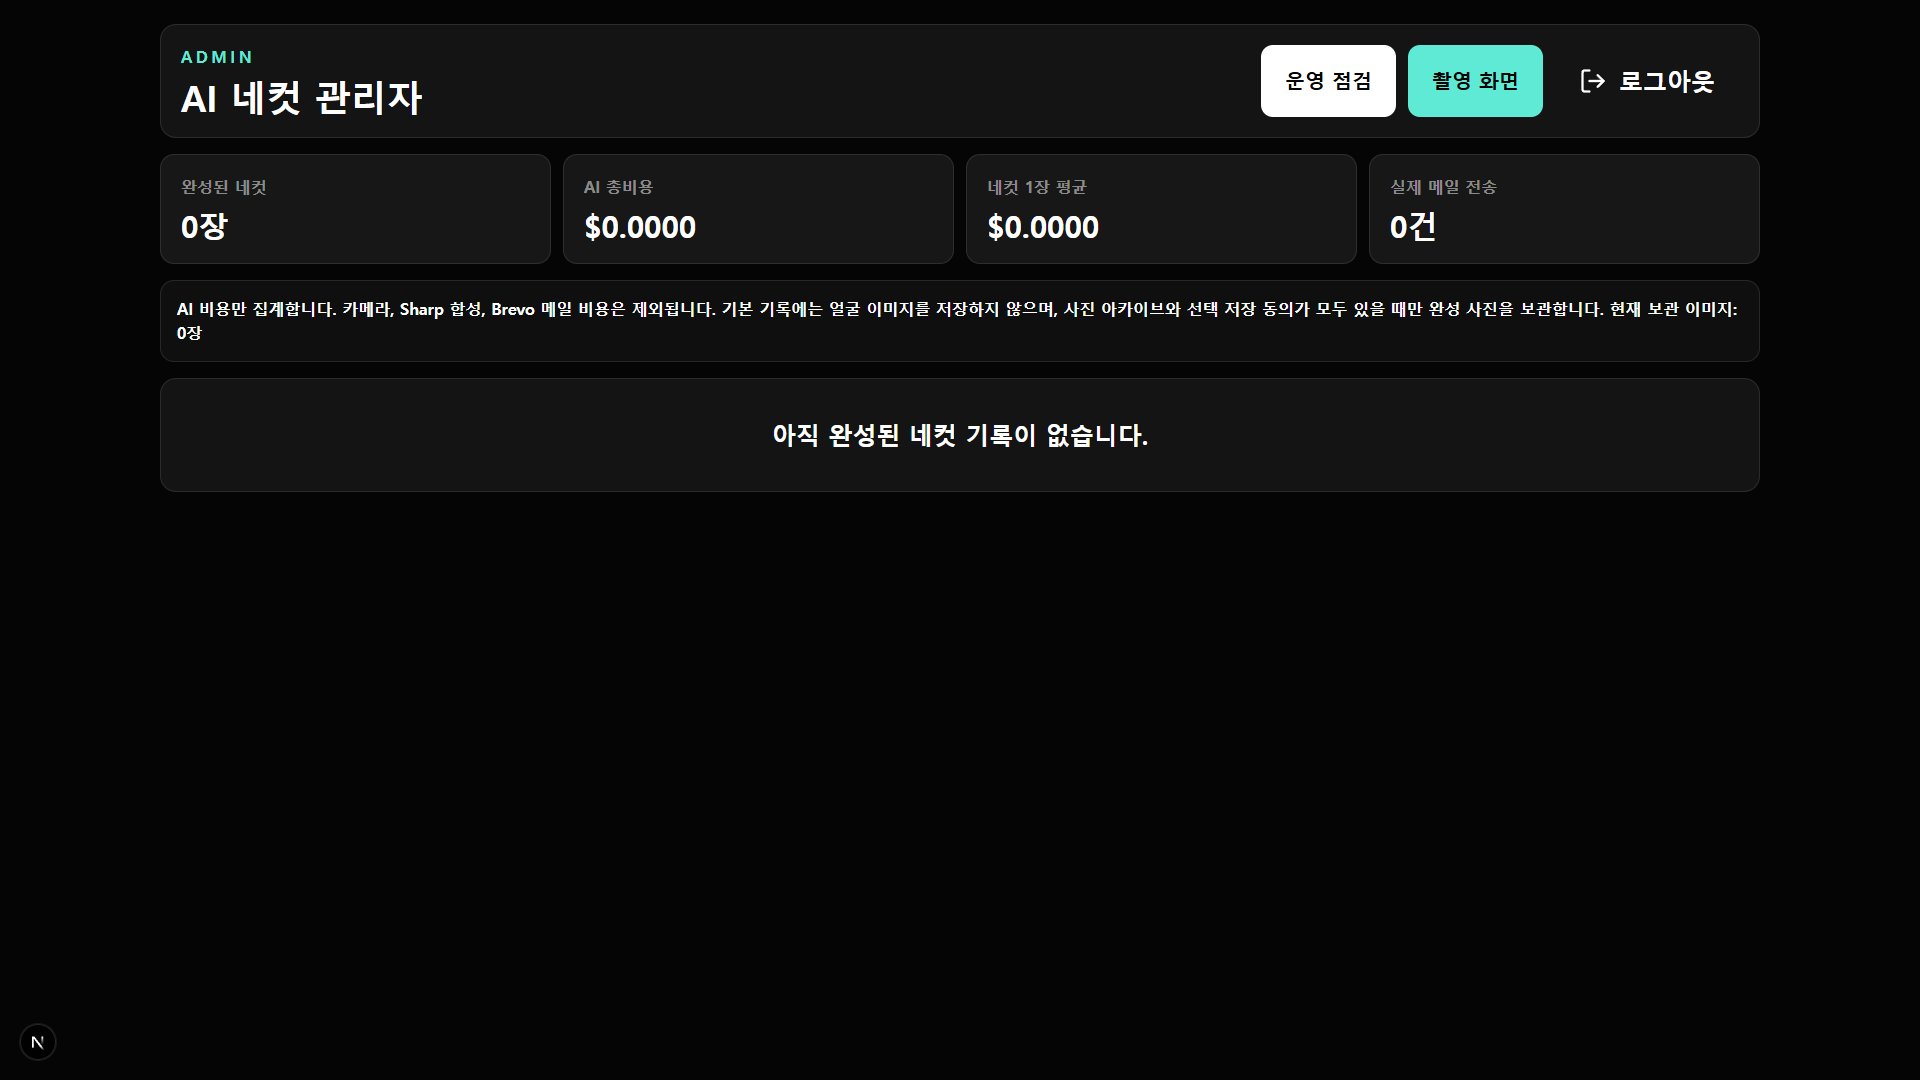
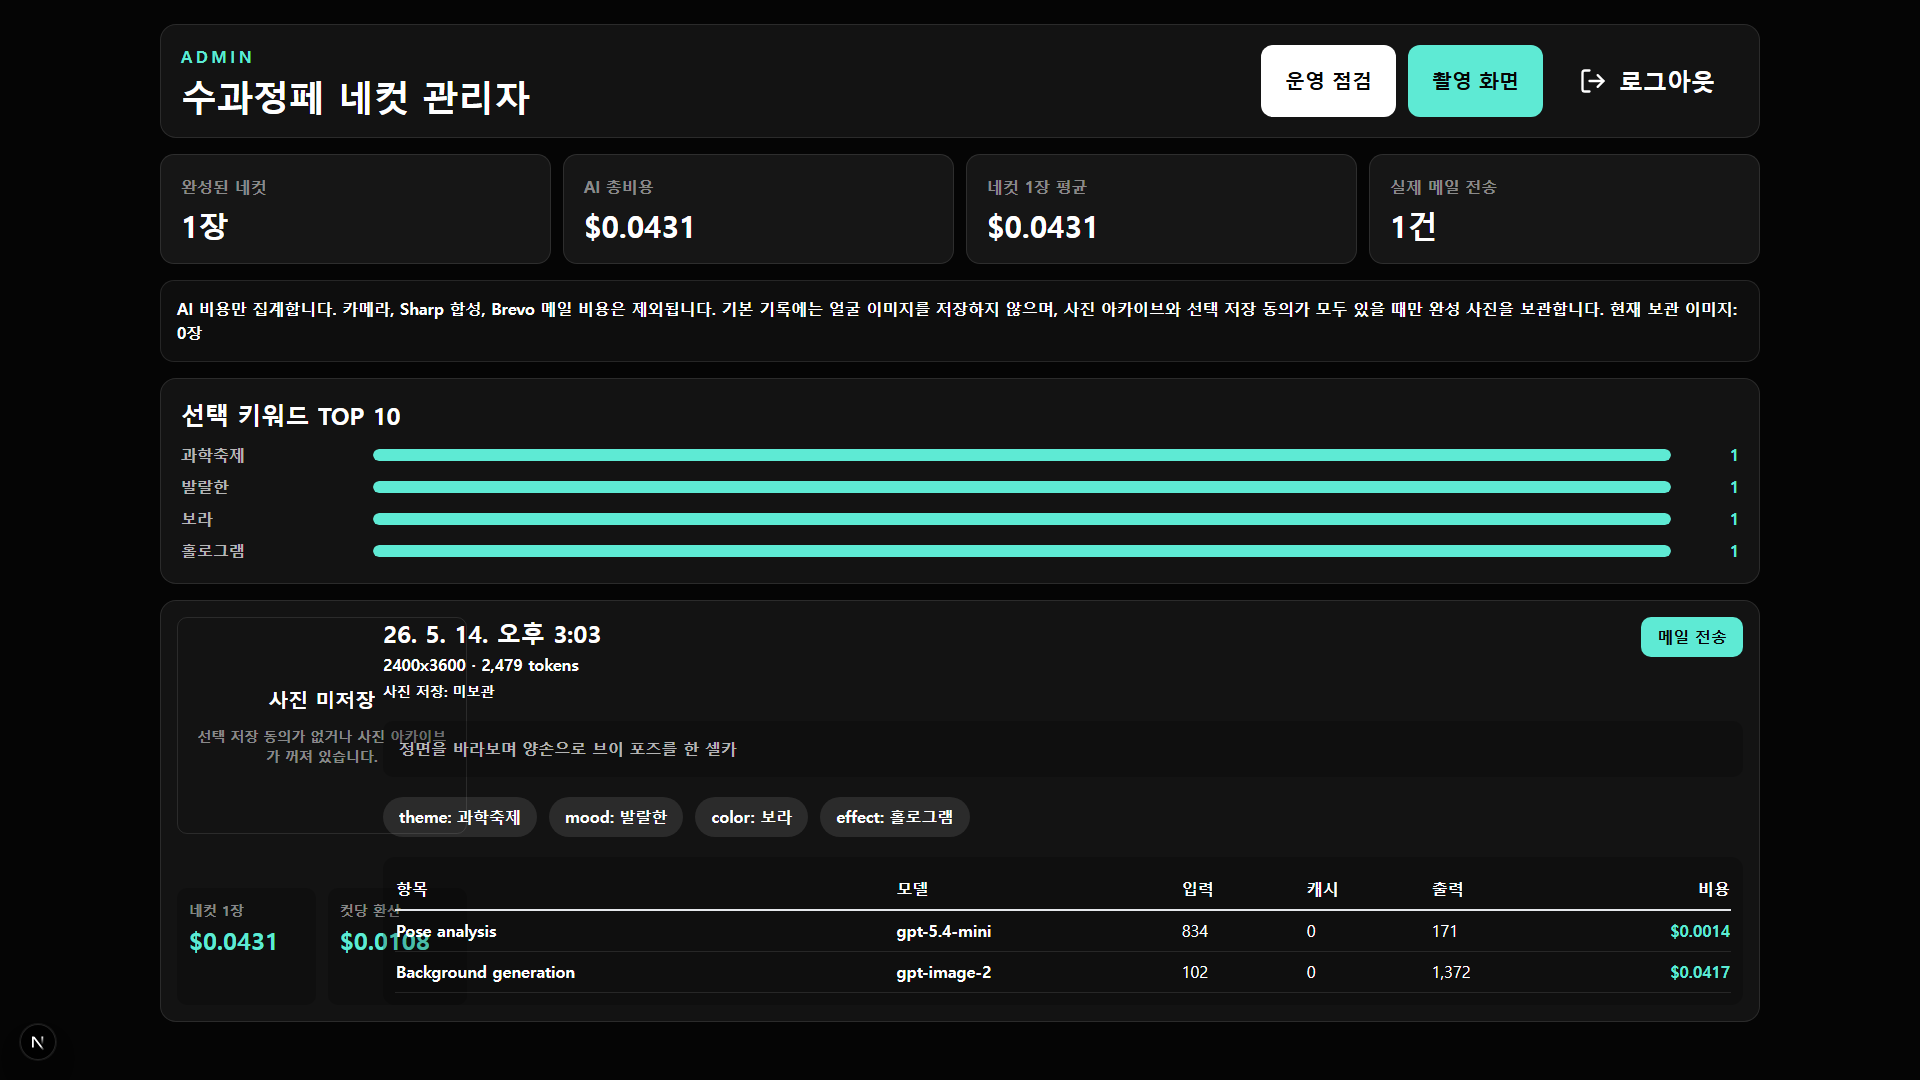
Update booth name

diff --git a/components/BoothApp.tsx b/components/BoothApp.tsx
@@ -48,6 +48,7 @@ const CATEGORY_LABELS: Record<KeywordCategory, string> = {
   effect: "장식",
 };
 const EVENT_TITLE = "2026. 진주시와 함께하는 경남과학고등학교 수학, 과학, 정보 페스티벌";
+const BOOTH_NAME = "AI와 함께하는 수과정페 네컷";
 const CLUB_NAME = "이음(IEUM)";
 const CLUB_SLOGAN = "- 기술로 사람과 사람을 잇다";
 const STAGE_LABELS = ["시작", "AI추천", "촬영", "선택", "받기"];
@@ -134,7 +135,7 @@ function presetKeywords(analysis: PoseAnalysis, index: number): SelectedKeywords
 
 function conceptTitle(selection: SelectedKeywords | null): string {
   if (!selection) {
-    return "AI 네컷";
+    return BOOTH_NAME;
   }
   return `${selection.color} ${selection.effect} ${selection.theme}`;
 }
@@ -1117,14 +1118,14 @@ export function BoothApp() {
                     <p className="text-2xl font-black tracking-[0.2em] text-[var(--primary)]">{CLUB_NAME}</p>
                     <p className="safe-text text-2xl font-black text-[var(--text-muted)]">{CLUB_SLOGAN}</p>
                   </div>
-                  <h1 className="safe-text text-[72px] font-black leading-[1.02]">AI 네컷</h1>
+                  <h1 className="safe-text text-[72px] font-black leading-[1.02]">{BOOTH_NAME}</h1>
                   <p className="safe-text max-w-[820px] text-3xl font-black leading-[1.25] text-[var(--text-muted)]">
                     포즈를 취하면 AI가 어울리는 배경을 만들어줘요.
                   </p>
                 </div>
 
                 <KioskButton onClick={() => setStep("consent")} className="min-h-[128px] text-5xl">
-                  AI 네컷 시작하기
+                  시작하기
                 </KioskButton>
                 <div className="grid grid-cols-4 gap-3">
                   {["포즈 분석", "AI 배경 추천", "네컷 촬영", "메일 받기"].map((label, index) => (

diff --git a/lib/brevo.ts b/lib/brevo.ts
@@ -17,6 +17,7 @@ function isProduction(): boolean {
 }
 
 const EVENT_TITLE = "2026. 진주시와 함께하는 경남과학고등학교 수학, 과학, 정보 페스티벌";
+const BOOTH_NAME = "AI와 함께하는 수과정페 네컷";
 const CLUB_NAME = "이음(IEUM)";
 
 export function isBrevoConfigured(): boolean {
@@ -52,9 +53,9 @@ export async function sendPhotoEmail({
         name: senderName,
       },
       to: [{ email: to }],
-      subject: `[${EVENT_TITLE}] AI 네컷사진을 보냅니다`,
+      subject: `[${EVENT_TITLE}] ${BOOTH_NAME} 사진을 보냅니다`,
       htmlContent:
-        `<p>${EVENT_TITLE} AI 네컷 포토부스를 이용해 주셔서 감사합니다.</p><p>${CLUB_NAME}이 완성된 이미지를 첨부했습니다.</p>`,
+        `<p>${EVENT_TITLE} ${BOOTH_NAME} 부스를 이용해 주셔서 감사합니다.</p><p>${CLUB_NAME}이 완성된 이미지를 첨부했습니다.</p>`,
       attachment: [
         {
           content: image.toString("base64"),

diff --git a/app/admin/page.tsx b/app/admin/page.tsx
@@ -120,7 +120,7 @@ export default async function AdminPage() {
         <header className="flex flex-wrap items-center justify-between gap-4 rounded-[16px] border border-white/10 bg-white/[0.06] p-5">
           <div className="grid gap-2">
             <p className="text-base font-black tracking-[0.22em] text-[#5eead4]">ADMIN</p>
-            <h1 className="safe-text text-4xl font-black">AI 네컷 관리자</h1>
+            <h1 className="safe-text text-4xl font-black">수과정페 네컷 관리자</h1>
           </div>
           <div className="flex gap-3">
             <a

diff --git a/app/layout.tsx b/app/layout.tsx
@@ -2,8 +2,8 @@ import type { Metadata } from "next";
 import "./globals.css";
 
 export const metadata: Metadata = {
-  title: "AI 네컷 포토부스",
-  description: "2026. 진주시와 함께하는 경남과학고등학교 수학, 과학, 정보 페스티벌 AI 네컷 포토부스",
+  title: "AI와 함께하는 수과정페 네컷",
+  description: "2026. 진주시와 함께하는 경남과학고등학교 수학, 과학, 정보 페스티벌 AI와 함께하는 수과정페 네컷",
 };
 
 export default function RootLayout({

diff --git a/README.md b/README.md
@@ -1,6 +1,6 @@
-# AI 네컷 포토부스
+# AI와 함께하는 수과정페 네컷
 
-경남과학고 수학과학페스티벌용 AI 네컷 포토부스 MVP입니다. 카메라로 포즈를 분석하고, 추천 키워드를 선택해 배경을 생성한 뒤 네 장의 사진을 합성해 이메일로 전송합니다.
+경남과학고 수학, 과학, 정보 페스티벌용 AI 네컷 포토부스입니다. 수과정페는 수학과학정보페스티벌의 줄임말입니다. 카메라로 포즈를 분석하고, 추천 키워드를 선택해 배경을 생성한 뒤 네 장의 사진을 합성해 이메일로 전송합니다.
 
 ## 실행
 
